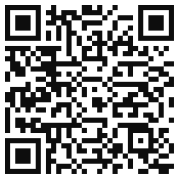
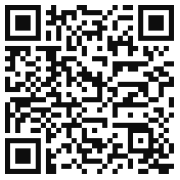
update scan

diff --git a/advanced/frontend/controllers/SiteController.php b/advanced/frontend/controllers/SiteController.php
@@ -19,6 +19,7 @@ use app\models\Item;
 use app\models\Logitem;
 use frontend\models\Setting;
 use app\models\Scanlog;
+use Da\QrCode\QrCode;
 /**
  * Site controller
  */
@@ -32,7 +33,7 @@ class SiteController extends Controller
         return [
             'access' => [
                 'class' => AccessControl::class,
-                'only' => ['logout', 'signup','settingsave','scan','settingcamera','scanm'],
+                'only' => ['logout', 'signup','settingsave','scan','settingcamera','scanm','scanm2'],
                 'rules' => [
                     [
                         'actions' => ['signup'],
@@ -40,7 +41,7 @@ class SiteController extends Controller
                         'roles' => ['?'],
                     ],
                     [
-                        'actions' => ['logout','settingsave','scan','settingcamera','scanm'],
+                        'actions' => ['logout','settingsave','scan','settingcamera','scanm','scanm2'],
                         'allow' => true,
                         'roles' => ['@'],
                     ],
@@ -96,7 +97,6 @@ class SiteController extends Controller
         $model= new Scanlog();
         if (Yii::$app->request->isAjax) {
         Yii::$app->response->format = \yii\web\Response::FORMAT_JSON;
-
         if (Yii::$app->request->post()) {
             $resp="";
             $hasil = explode(PHP_EOL,$_POST['Inputan']['barcode']);
@@ -109,6 +109,72 @@ class SiteController extends Controller
                 $jj->scan=$value;
                 if($jj->save()) {
                     $resp.=$value." berhasil diinput <br/>";
+                } else {
+                    $resp.=$value." gagal diinput <br/>";
+                }
+                }
+                
+            }
+            }
+            return $resp;
+            
+        } else {
+            return "data tidak berhasil diinput";
+        }
+        }
+        return $this->render('createscanm', [
+        'model' => $model,
+        ]);
+    } 
+
+    public function actionScanm2(){
+        $model= new Scanlog();
+        if (Yii::$app->request->isAjax) {
+        Yii::$app->response->format = \yii\web\Response::FORMAT_JSON;
+        if (Yii::$app->request->post()) {
+            $resp="";
+            $hasil = explode(PHP_EOL,$_POST['Inputan']['barcode']);
+            foreach($hasil as $value){
+            if($value<>" " or $value<>""){
+                $value = preg_replace("/\r|\n/", "", $value);
+                $value =trim($value);
+                if($value<>""){
+                $jj=new Scanlog();
+                $jj->scan=$value;
+                if($jj->save()) {
+                    $resp.=$value." berhasil diinput <br/>";
+                    $item=$value;
+                    $data=explode("(", $item);
+                    if(count($data)==6){
+                        $dat1=explode(")",$data[1]);
+                        $var1=$dat1[1];
+                        $dat1=explode(")",$data[2]);
+                        $var2=$dat1[1];
+                        $dat1=explode(")",$data[3]);
+                        $var3=$dat1[1];
+                        $dat1=explode(")",$data[4]);
+                        $var4=$dat1[1];
+                        $dat1=explode(")",$data[5]);
+                        $var5=$dat1[1];
+                        $gabung ="(90)".$var1."(01)".$var2."(10)".$var3."(17)".$var4."(21)".$var5;
+                        $qrCode = (new QrCode($gabung))
+                            ->setSize(170)
+                            ->setMargin(5)
+                            ->useForegroundColor(13, 13, 13);
+                        $qrCode->writeFile('code.png'); // writer defaults to PNG when none is specified
+                        header('Content-Type: '.$qrCode->getContentType());
+                        $resp.='<div class="row">
+                        <div class="col-3">
+                        <img src="' . $qrCode->writeDataUri() . '">
+                        </div>
+                        <div class="col-4">
+                        <table id="w0" class="table table-striped table-bordered detail-view"><tbody><tr><th>NIE</th><td>'.$var1.'</td></tr>
+<tr><th>GTIN</th><td>'.$var2.'</td></tr>
+<tr><th>LOT NO</th><td>'.$var3.'</td></tr>
+<tr><th>EXP DATE</th><td>'.$var4.'</td></tr>
+<tr><th>S / N</th><td>'.$var5.'</td></tr></tbody></table>
+                        </div></div>';
+                    }
                 } else {
                     $resp.=$value." gagal diinput <br/>";
                 }

diff --git a/advanced/frontend/themes/lte3/views/layouts/sidebar.php b/advanced/frontend/themes/lte3/views/layouts/sidebar.php
@@ -54,9 +54,9 @@ use hscstudio\mimin\components\Mimin;
                     ['label' => 'Printer Configuration', 'url'=>['/site/settingsave'],'icon' => 'link', 'visible' => !Yii::$app->user->isGuest],
                     ['label' => 'Connect to Printer', 'url'=>['/site/eksekusi'],'target'=>'_blank','icon' => 'print', 'visible' => !Yii::$app->user->isGuest],
                     ['label' => 'Camera Configuration', 'url'=>['/site/settingcamera'],'icon' => 'link', 'visible' => !Yii::$app->user->isGuest],
-                    //['label' => 'Server Camera', 'url'=>Yii::$app->homeUrl.'/servercamera.py','target'=>'_blank','icon' => 'camera-retro', 'visible' => !Yii::$app->user->isGuest],
-                    ['label' => 'Server Camera', 'url'=>['/site/scan'],'target'=>'_blank','icon' => 'camera-retro', 'visible' => !Yii::$app->user->isGuest],
-                    ['label' => 'Input Barcode', 'url'=>['/site/scanm'],'icon' => 'barcode', 'visible' => !Yii::$app->user->isGuest],
+                    ['label' => 'Server Camera', 'url'=>Yii::$app->homeUrl.'/servercamera.py','target'=>'_blank','icon' => 'camera-retro', 'visible' => !Yii::$app->user->isGuest],
+                    //['label' => 'Server Camera', 'url'=>['/site/scan'],'target'=>'_blank','icon' => 'camera-retro', 'visible' => !Yii::$app->user->isGuest],
+                    ['label' => 'Input Barcode', 'url'=>['/site/scanm2'],'icon' => 'barcode', 'visible' => !Yii::$app->user->isGuest],
                     ['label' => 'Camera Monitoring', 'url'=>['/site/cameralive'],'icon' => 'eye', 'visible' => !Yii::$app->user->isGuest],
                     ['label' => 'Log Camera', 'url'=>['/log/index'],'icon' => 'download', 'visible' => !Yii::$app->user->isGuest],
                     ['label' => \Yii::t('yii', 'Login'), 'url' => ['site/login'], 'icon' => 'sign-in-alt', 'visible' => Yii::$app->user->isGuest],

diff --git a/client.py b/client.py
@@ -2,7 +2,7 @@
 
 import socket
 TCP_IP='192.168.20.9'
-TCP_PORT=5002
+TCP_PORT=5005
 BUFFER_SIZE=1024
 #MESSAGE=b'\x00\x00\x00\x00\x00\x26\x00\x64\x00\x22\x00\xcf\x00\x00\x00\x00\x05\x41\x4d\x49\x49\x38\x03\x43\x43\x43\x00\x00\x00\x00\x00\x00\x00\x00\x00\x00\x00\x00\x00\x00\x00\x00\x00\x00\r'
 MESSAGE=b'hello'

diff --git a/advanced/frontend/views/site/livecamera.php b/advanced/frontend/views/site/livecamera.php
@@ -4,7 +4,7 @@ use yii\helpers\Html;
 use app\models\Itemcamera;
 use app\models\Scanlog;
 use yii\widgets\ActiveForm;
- use Da\QrCode\QrCode;
+use Da\QrCode\QrCode;
 use yii\widgets\DetailView;
 $timerr=1000;
 $this->title="Monitoring Camera Input";

diff --git a/advanced/frontend/views/site/createscanm.php b/advanced/frontend/views/site/createscanm.php
@@ -13,7 +13,7 @@ if(isset($timerr)){
 } else {
 	$durasi=5000;
 }*/
-$durasi=5000;
+$durasi=1000;
 $batas=10;
 $this->registerJs(
 '
